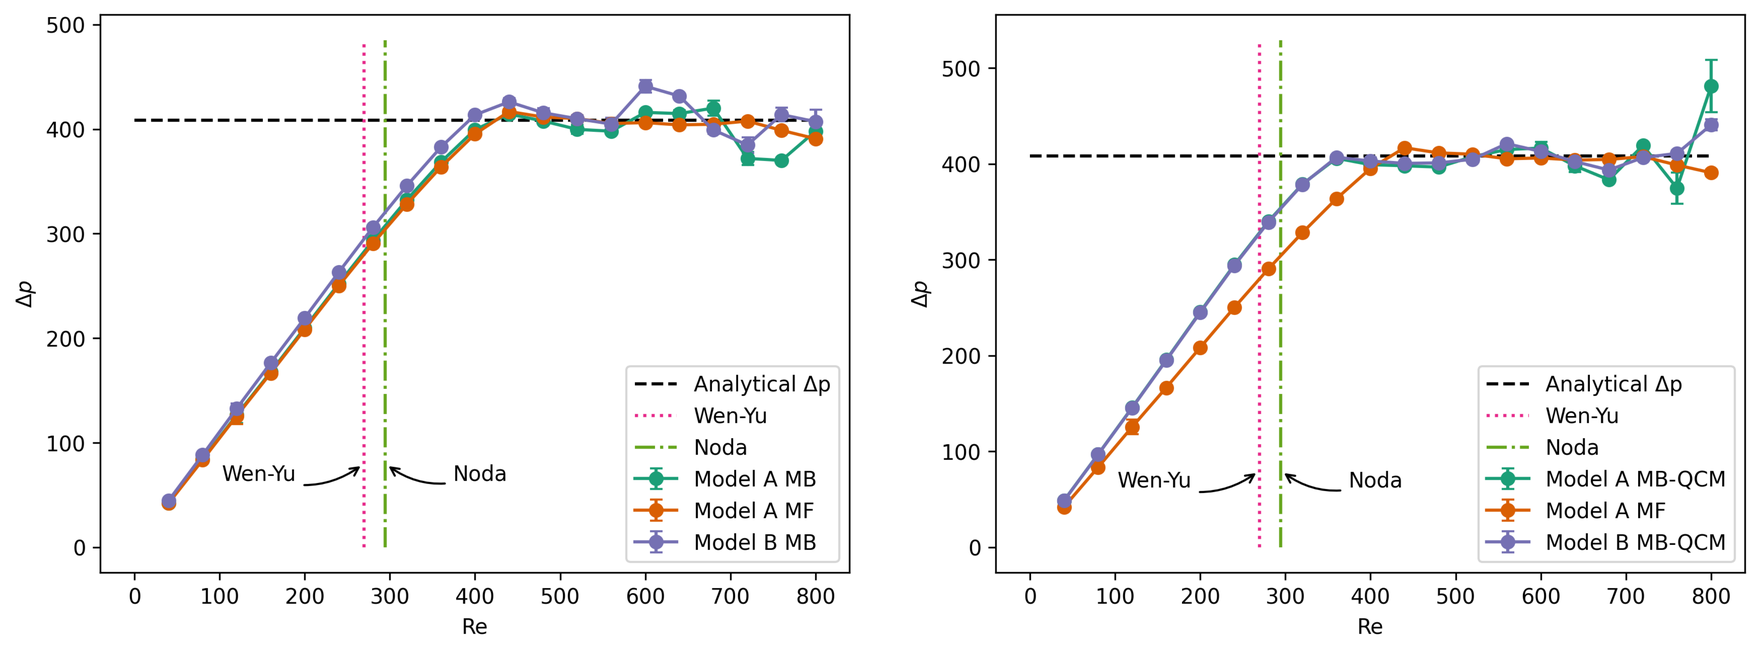
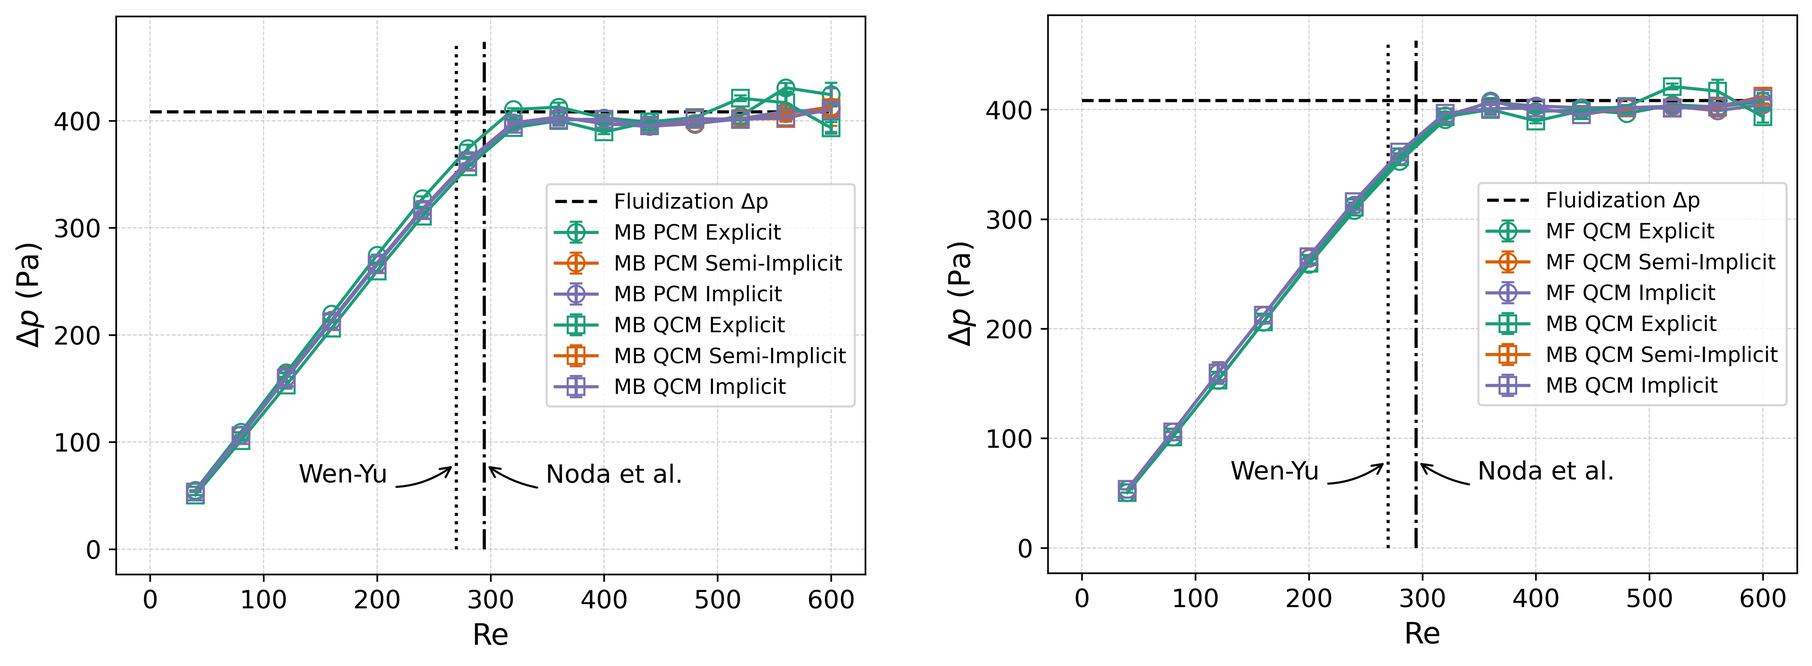
Finish new version of example

diff --git a/examples/unresolved-cfd-dem/gas-solid-fluidized-cylinder-bed/plot-pressure.py b/examples/unresolved-cfd-dem/gas-solid-fluidized-cylinder-bed/plot-pressure.py
@@ -14,13 +14,15 @@ from cycler import cycler
 #############################################################################
 # Steup plot parameters
 #############################################################################
-colors=['#1b9e77','#d95f02','#7570b3','#e7298a','#66a61e','#e6ab02']
+colors=['#1b9e77','#d95f02','#7570b3']
+markers = ['o', 's']
 
 plt.rcParams['axes.prop_cycle'] = cycler(color=colors)
 
 #############################################################################
 # Helper functions
 #############################################################################
+# === Binning function ===
 def bin_and_average(time, pressure, bins, averaging_window):
     indices = np.digitize(time, bins) - 1
     mean_p, std_p = [], []
@@ -36,11 +38,13 @@ def bin_and_average(time, pressure, bins, averaging_window):
 
 # === Plotting function ===
 def plot_pressure(Re, dataset_keys, labels, subscript):
-    for key, label in zip(dataset_keys, labels):
-        plt.errorbar(Re, datasets[key]["mean"], yerr=datasets[key]["std"], fmt='o-', capsize=3, label=label)
-    plt.plot([0, max(Re)], [delta_p_analytical]*2, 'k--', label="Analytical Δp")
-    plt.plot([Re_mf_WY_inlet, Re_mf_WY_inlet], [0, max([datasets[k]["mean"].max() for k in dataset_keys])*1.1], ':', label="Wen-Yu")
-    plt.plot([Re_mf_N_inlet, Re_mf_N_inlet], [0, max([datasets[k]["mean"].max() for k in dataset_keys])*1.1], '-.', label="Noda")
+    
+    for i, (key, label) in enumerate(zip(dataset_keys, labels)):
+        marker = markers[(i // 3) % len(markers)]
+        plt.errorbar(Re, datasets[key]["mean"], yerr=datasets[key]["std"], fmt=marker+'-',  markerfacecolor='none', markersize=8, capsize=3, label=label)
+    plt.plot([0, max(Re)], [delta_p_analytical]*2, 'k--', label="Fluidization Δp")
+    plt.plot([Re_mf_WY_inlet, Re_mf_WY_inlet], [0, max([datasets[k]["mean"].max() for k in dataset_keys])*1.1], 'k:')
+    plt.plot([Re_mf_N_inlet, Re_mf_N_inlet], [0, max([datasets[k]["mean"].max() for k in dataset_keys])*1.1], 'k-.')
       # Add annotations below the lines with arrows pointing up  
     # Fixed y for annotations
     y_annot = 80
@@ -52,22 +56,27 @@ def plot_pressure(Re, dataset_keys, labels, subscript):
         arrowprops=dict(facecolor='black', arrowstyle="->",
                         connectionstyle="arc3,rad=0.3"),    
         horizontalalignment='right',
-        verticalalignment='top'
+        verticalalignment='top',
+        fontsize=12
     )
     # Noda annotation (arrow from right, curved)
     plt.annotate(
-        "Noda",
+        "Noda et al.",
         xy=(Re_mf_N_inlet, y_annot),
-        xytext=(Re_mf_N_inlet + 0.1*max(Re), y_annot),  
+        xytext=(Re_mf_N_inlet + 0.09*max(Re), y_annot),  
         arrowprops=dict(facecolor='black', arrowstyle="->",
                         connectionstyle="arc3,rad=-0.3"),  
         horizontalalignment='left',
-        verticalalignment='top'
+        verticalalignment='top',
+        fontsize=12
     )
-    plt.xlabel("Re")
-    plt.ylabel("$\\Delta p$")
+    plt.grid(True, which='major', linestyle='--', linewidth=0.5, alpha=0.6)
+    plt.xticks(fontsize=12)
+    plt.yticks(fontsize=12)
+    plt.xlabel("Re", fontsize=14)
+    plt.ylabel("$\\Delta p$ (Pa)", fontsize=14)
     plt.legend()
-    plt.savefig(f"Figure_{subscript}.png", dpi=300, bbox_inches='tight')
+    plt.savefig(f"Figure_{subscript}.png", dpi=600, bbox_inches='tight')
     plt.show()
 
 
@@ -75,11 +84,15 @@ def plot_pressure(Re, dataset_keys, labels, subscript):
 # Load data
 #############################################################################
 data_files = {
-    "A_MB": "output_modelA_mb/pressure_drop.dat",
-    "B_MB": "output_modelB_mb/pressure_drop.dat",
-    "A_MB_proj": "output_modelA_project_forces_qcm/pressure_drop.dat",
-    "B_MB_proj": "output_modelB_project_forces_qcm/pressure_drop.dat",
-    "A_MF": "output_modelA_mf/pressure_drop.dat"
+    "MB_PCM_E": "output_mb_pcm_explicit/pressure_drop.dat",
+    "MB_PCM_SI": "output_mb_pcm_semi_implicit/pressure_drop.dat",
+    "MB_PCM_I": "output_mb_pcm_implicit/pressure_drop.dat",
+    "MB_QCM_E": "output_mb_qcm_explicit/pressure_drop.dat",
+    "MB_QCM_SI": "output_mb_qcm_semi_implicit/pressure_drop.dat",
+    "MB_QCM_I": "output_mb_qcm_implicit/pressure_drop.dat",
+    "MF_QCM_E": "output_mf_explicit/pressure_drop.dat",
+    "MF_QCM_SI": "output_mf_semi_implicit/pressure_drop.dat",
+    "MF_QCM_I": "output_mf_implicit/pressure_drop.dat"
 }
 
 datasets = {}
@@ -154,19 +167,19 @@ for key, ds in datasets.items():
 # Plot
 #############################################################################
 # Reynolds numbers for x-axis
-velocity = np.minimum(0.02 * np.floor(bin_centers / 0.05 + 1), 0.4)
+velocity = np.minimum(0.02 * np.floor(bin_centers / 0.05 + 1), 0.3)
 Re = velocity * D / nu
 
 plot_pressure(
     Re,
-    ["A_MB", "A_MF", "B_MB"],
-    ["Model A MB", "Model A MF", "Model B MB"],
-    "cell-based-MB"
+    ["MB_PCM_E", "MB_PCM_SI", "MB_PCM_I", "MB_QCM_E", "MB_QCM_SI", "MB_QCM_I"],
+    ["MB PCM Explicit", "MB PCM Semi-Implicit", "MB PCM Implicit", "MB QCM Explicit", "MB QCM Semi-Implicit", "MB QCM Implicit"],
+    "MB"
 )
 
 plot_pressure(
     Re,
-    ["A_MB_proj", "A_MF", "B_MB_proj"],
-    ["Model A MB-QCM", "Model A MF", "Model B MB-QCM"],
-    "qcm-based-MB"
+    ["MF_QCM_E", "MF_QCM_SI", "MF_QCM_I", "MB_QCM_E", "MB_QCM_SI", "MB_QCM_I"],
+    ["MF QCM Explicit", "MF QCM Semi-Implicit", "MF QCM Implicit", "MB QCM Explicit", "MB QCM Semi-Implicit", "MB QCM Implicit"],
+    "MB-MF"
 )

diff --git a/doc/source/examples/unresolved-cfd-dem/gas-solid-fluidized-cylinder-bed/gas-solid-fluidized-cylinder-bed.rst b/doc/source/examples/unresolved-cfd-dem/gas-solid-fluidized-cylinder-bed/gas-solid-fluidized-cylinder-bed.rst
@@ -20,8 +20,8 @@ Files Used in This Example
 
 All files mentioned below are located in the example's folder (``examples/unresolved-cfd-dem/gas-solid-fluidized-cylinder-bed``).
 
-- Parameter file for particle generation and packing: ``particle-packing.prm``
-- Parameter file for CFD-DEM simulation of the gas-solid fluidized bed: ``mb-fluidized-bed-modelA.prm``, ``mb-fluidized-bed-modelB.prm``, ``mb-fluidized-bed-modelA-qcm.prm``, ``mb-fluidized-bed-modelB-qcm.prm`` and ``mf-fluidized-bed-modelA.prm``
+- Parameter file for particle generation and packing: ``packing-particles.prm``
+- Parameter files for CFD-DEM simulation of the gas-solid fluidized bed: ``mb-fluidized-bed-modelA-pcm-explicit.prm``, ``mb-fluidized-bed-modelA-pcm-implicit.prm``, ``mb-fluidized-bed-modelA-pcm-semi-implicit.prm``, ``mb-fluidized-bed-modelA-qcm-explicit.prm``, ``mb-fluidized-bed-modelA-qcm-implicit.prm ``, ``mb-fluidized-bed-modelA-qcm-semi-implicit.prm``, ``mf-fluidized-bed-modelA-qcm-explicit.prm``, ``mf-fluidized-bed-modelA-qcm-implicit.prm``, ``mf-fluidized-bed-modelA-qcm-semi-implicit.prm``
 - Post-processing Python script: ``plot-pressure.py``
 
 
@@ -29,14 +29,28 @@ All files mentioned below are located in the example's folder (``examples/unreso
 Description of the Case
 -----------------------
 
-This example simulates a gas–solid fluidized bed inside a cylindrical column (diameter :math:`0.02` m, height :math:`0.4` m). First, ``lethe-particles`` is used with ``particle-packing.prm`` to generate and pack spherical particles (diameter :math:`0.0005` m, density :math:`1000\;\text{kg}/\text{m}^3`) inside the column. After packing, the solid–fluid mixture is simulated with two solvers: the matrix-free solver ``lethe-fluid-particle-matrix-free`` and the matrix-based CFD–DEM solver ``lethe-fluid-particles``. For the matrix-based solver we test two VANS models (model A and model B), and for each model we project particle–fluid forces using one of two approaches: a cell-based filter or the Quadrature-Centered Method (QCM) filter. The superficial gas velocity at the inlet is varied from :math:`0.02` to :math:`0.4\;\text{m}/\text{s}` and the pressure drop across the bed is recorded. Results are compared with correlations from the literature for validation.
+This example simulates a gas–solid fluidized bed inside a cylindrical column (diameter :math:`0.02` m, height :math:`0.4` m). First, ``lethe-particles`` is used with ``packing-particles.prm`` to generate and pack spherical particles (diameter :math:`0.0005` m, density :math:`1000\;\text{kg}/\text{m}^3`) inside the column. After packing, the solid–fluid mixture is simulated using the model A of the VANS equations with two solvers:
+ 1. The matrix-based CFD–DEM solver ``lethe-fluid-particles``
+   
+    The VANS model A using the matrix-based solver is tested with two different projection filters:
+
+       * a cell-based filter (corresponding to the Particle Centroid Method, PCM)
+       * the Quadrature-Centered Method (QCM) filter. 
+  
+ 2. The matrix-free solver ``lethe-fluid-particle-matrix-free`` 
+   
+    This solver only works with the QCM filter
+
+For more details on the different filtering approaches used in Lethe, the reader is invited to consult the `Unresolved CFD-DEM section <../../../theory/multiphase/cfd_dem/unresolved_cfd-dem.html>`_ of Lethe's theory guide. It is worth noting that in this example, the same filter is applied to both the void fraction and the particle–fluid forces, which is mathematically consistent. However, different filters can be applied to the void fraction and to the particle–fluid forces independently, if desired. Each case is run with three different coupling approaches for the drag force: explicit, implicit, and semi-implicit.
+
+The superficial gas velocity at the inlet is varied from :math:`0.02` to :math:`0.3\;\text{m}/\text{s}` and the pressure drop across the bed is recorded. Results are compared with correlations from the literature for validation.
 
 
 -------------------
 DEM Parameter File
 -------------------
 
-A DEM simulation is first run to insert the required number of particles. A detailed description of all the DEM parameter subsections can be found in the `DEM parameters section <../../../parameters/dem/dem.html>`_. The subsections in the DEM parameter file ``particle-packing.prm`` that are pertinent to this example are described below. 
+A DEM simulation is first run to insert the required number of particles. A detailed description of all the DEM parameter subsections can be found in the `DEM parameters section <../../../parameters/dem/dem.html>`_. The subsections in the DEM parameter file ``packing-particles.prm`` that are pertinent to this example are described below. 
 
 
 Mesh
@@ -192,7 +206,7 @@ The packing simulation can be launched on 16 processors using the following comm
 .. code-block:: text
   :class: copy-button
 
-  mpirun -np 16 lethe-particles particle-packing.prm
+  mpirun -np 16 lethe-particles packing-particles.prm
 
 .. note:: 
     Running this simulation should take approximately 1 hour and 10 minutes on 16 cores.
@@ -204,27 +218,27 @@ Now that the particles are packed inside the cylindrical column, the CFD-DEM sim
 CFD-DEM Parameter File
 -----------------------
 
-The CFD-DEM simulation is run using the matrix-based solver ``lethe-fluid-particles`` or the matrix-free solver ``lethe-fluid-particles-matrix-free``. For the matrix-based solver, four parameter files are provided to test two VANS models (model A and model B) with two force projection methods (cell-based and QCM). The matrix-free solver is only tested with model A. The main description in this section follows the matrix-based parameter file ``mb-fluidized-bed-modelA.prm``. Differences associated with the remaining parameter files will be highlighted where relevant.
+The CFD-DEM simulation is run using the matrix-based solver ``lethe-fluid-particles`` or the matrix-free solver ``lethe-fluid-particles-matrix-free``. For the matrix-based solver, six parameter files are provided to test VANS model A with two projection filters (cell-based and QCM) and three different drag coupling approaches (explicit, implicit, and semi-implicit). The matrix-free solver is also tested with the QCM filter and the three drag coupling schemes. The main description in this section follows the matrix-based parameter file ``mb-fluidized-bed-modelA-qcm-semi-implicit.prm``. Differences associated with the remaining parameter files will be highlighted where relevant.
 
 The objective of the simulations is to represent the pressure drop across the bed as a function of the Reynolds number based on the superficial gas velocity and the column diameter:
 
 .. math::
-  Re = \frac{U_{\mathrm{g}} D}{\nu_{\mathrm{f}}}
+  \mathrm{Re} = \frac{U_{\mathrm{g}} D}{\nu_{\mathrm{f}}}
 
-where :math:`U_{\mathrm{g}}` is the superficial gas velocity, :math:`D` is the column diameter and :math:`\nu_{\mathrm{f}}` is the kinematic viscosity of the fluid. For a Reynolds number interval ranging from :math:`200` to :math:`800`, the gas inlet velocity is varied from :math:`0.02\;\text{m/s}` to :math:`0.4\;\text{m/s}` in increments of :math:`0.02\;\text{m/s}`, each value applied for :math:`0.05` s.
+where :math:`U_{\mathrm{g}}` is the superficial gas velocity, :math:`D` is the column diameter and :math:`\nu_{\mathrm{f}}` is the kinematic viscosity of the fluid. For a Reynolds number interval ranging from :math:`200` to :math:`600`, the gas inlet velocity is varied from :math:`0.02\;\text{m/s}` to :math:`0.3\;\text{m/s}` in increments of :math:`0.02\;\text{m/s}`, each value applied for :math:`0.05` s.
 
 
 Simulation Control
 ~~~~~~~~~~~~~~~~~~~~~~~~~~~~
 
-To reach an inlet velocity of :math:`0.4\;\text{m/s}`, as described earlier, the CFD-DEM simulation is run for a total time of :math:`1` s with a time step of :math:`0.0002` s. In the case of the QCM projection of the forces with the matrix-based solver, only an explicit coupling of the drag is available at the time this example was created. Therefore, in the latter case, the time step is reduced to :math:`0.0001` s to ensure numerical stability.
+To reach an inlet velocity of :math:`0.3\;\text{m/s}`, as described earlier, the CFD-DEM simulation is run for a total time of :math:`0.75` s with a time step of :math:`0.0002` s. For cases with an explicit drag coupling, the time step is reduced to :math:`0.0001` s to ensure numerical stability.
 
 .. code-block:: text
 
     subsection simulation control
         set method           = bdf1
         set output frequency = 50
-        set time end         = 1.0
+        set time end         = 0.75
         set time step        = 0.0002
     end
 
@@ -260,7 +274,7 @@ The boundary conditions are chosen as follows: a no-slip condition on the latera
             set id   = 1
             set type = function
             subsection u
-            set Function expression = min(0.02 * floor(t / 0.05 + 1), 0.4)
+            set Function expression = min(0.02 * floor(t / 0.05 + 1), 0.3)
             end
             subsection v
             set Function expression = 0
@@ -279,7 +293,7 @@ The boundary conditions are chosen as follows: a no-slip condition on the latera
 Void Fraction
 ~~~~~~~~~~~~~~~~~~~~~~~~~~~~
 
-The void fraction is computed using the particle information available in the DEM files, so ``read_dem`` is set to ``true``. The ``dem file name`` corresponds to the files written during the previous DEM simulation using checkpointing. The calculation method is set to ``qcm``, with the sphere’s radius chosen such that its volume equals the cell’s volume by setting ``qcm sphere equal cell volume`` to ``true``. A smoothing length equal to twice the particle diameter is used.
+The void fraction is computed using the particle information available in the DEM files, so ``read_dem`` is set to ``true``. The ``dem file name`` corresponds to the files written during the previous DEM simulation using checkpointing. The calculation method is set to ``qcm``, with the sphere’s radius chosen such that its volume equals the cell’s volume by setting ``qcm sphere equal cell volume`` to ``true``. For cases using the PCM filter, the void fraction ``mode`` is set to ``pcm`` instead. A smoothing length equal to twice the particle diameter is used.
 
 .. code-block:: text
 
@@ -295,7 +309,7 @@ The void fraction is computed using the particle information available in the DE
 CFD-DEM
 ~~~~~~~~~~~~~~~~~~~~~~~~~~~~
 
-All hydrodynamic forces are enabled in the ``cfd-dem`` subsection. This allows testing the different models. Grad-div stabilization is also enabled to improve mass conservation, using a length-scale equal to the column's radius, which is of the same order of the characteristic length of the flow, as recommended in the `CFD-DEM parameters section <../../../parameters/unresolved-cfd-dem/cfd-dem.html>`_. In simulations where the QCM projection is applied to the particle–fluid forces, the parameter ``project particle forces`` is set to ``true``, and the ``drag coupling`` is set to ``explicit``.
+All hydrodynamic forces are enabled in the ``cfd-dem`` subsection. This allows testing the different models. Grad-div stabilization is also enabled to improve mass conservation, using a length-scale equal to the column's radius, which is of the same order of the characteristic length of the flow, as recommended in the `CFD-DEM parameters section <../../../parameters/unresolved-cfd-dem/cfd-dem.html>`_. In simulations of this example using the QCM filter, the parameter ``project particle forces`` is set to ``true``, to use the QCM filter to calculate the particle-fluid forces (by default, this parameter is ``false``, and the cell-based filter is used to calculate the particle-fluid forces term in the VANS equations). The ``drag coupling`` parameter is set to the desired coupling approach and defaults to ``semi-implicit``.
 
 .. code-block:: text
 
@@ -310,6 +324,8 @@ All hydrodynamic forces are enabled in the ``cfd-dem`` subsection. This allows t
         set drag model                    = difelice
         set coupling frequency            = 100
         set vans model                    = modelA
+        set drag coupling                 = semi-implicit
+        set project particle forces       = true
     end
 
 
@@ -379,31 +395,39 @@ The simulations are launched with the matrix-based solver (and corresponding par
 .. code-block:: text
   :class: copy-button
 
-  mpirun -np 8 lethe-fluid-particles mb-fluidized-bed-modelA.prm
+  mpirun -np 8 lethe-fluid-particles mb-fluidized-bed-modelA-qcm-semi-implicit.prm
 
 The matrix-free solver is run following:
 
 .. code-block:: text
   :class: copy-button
 
-  mpirun -np 8 lethe-fluid-particles-matrix-free mf-fluidized-bed-modelA.prm
+  mpirun -np 8 lethe-fluid-particles-matrix-free mf-fluidized-bed-modelA-qcm-semi-implicit.prm
 
 .. note::   
     The simulation runtimes on 128 cores, which are approximate, are as follows:
 
-    +------------------+-------------+------------------+--------------------+
-    | Solver           | VANS Model  | Force projection | Simulation runtime |
-    +==================+=============+==================+====================+
-    | Matrix-based     | A           | Cell-based       | 1 h 30 min         |
-    +------------------+-------------+------------------+--------------------+
-    | Matrix-based     | B           | Cell-based       | 2 h 30 min         |
-    +------------------+-------------+------------------+--------------------+
-    | Matrix-based     | A           | QCM              | 3 h                |
-    +------------------+-------------+------------------+--------------------+
-    | Matrix-based     | B           | QCM              | 3 h                |
-    +------------------+-------------+------------------+--------------------+
-    | Matrix-free      | A           | QCM              | 1 h 20 min         |
-    +------------------+-------------+------------------+--------------------+
+    +---------------+-------------+-------------------+--------------------+-----------------+
+    | Solver        | VANS Model  | Force projection  | Drag coupling  | Simulation runtime  |
+    +===============+=============+===================+================+=====================+
+    | Matrix-based  | A           | PCM (Cell-based)  | Explicit       | 2 h 50 min          |  
+    +---------------+-------------+-------------------+----------------+---------------------+
+    | Matrix-based  | A           | PCM (Cell-based)  | Semi-implicit  | 1 h 9 min           |
+    +---------------+-------------+-------------------+----------------+---------------------+
+    | Matrix-based  | A           | PCM (Cell-based)  | Implicit       | 1 h 25 min          |
+    +---------------+-------------+-------------------+----------------+---------------------+
+    | Matrix-based  | A           | QCM               | Explicit       | 2 h 11 min          |
+    +---------------+-------------+-------------------+----------------+---------------------+
+    | Matrix-based  | A           | QCM               | Semi-implicit  | 1 h 5 min           |
+    +---------------+-------------+-------------------+----------------+---------------------+
+    | Matrix-based  | A           | QCM               | Implicit       | 1 h 39 min          |
+    +---------------+-------------+-------------------+----------------+---------------------+
+    | Matrix-free   | A           | QCM               | Explicit       | 1 h 56 min          |
+    +---------------+-------------+-------------------+----------------+---------------------+
+    | Matrix-free   | A           | QCM               | Semi-implicit  | 54 min              |
+    +---------------+-------------+-------------------+----------------+---------------------+
+    | Matrix-free   | A           | QCM               | Implicit       | 1 h 16 min          |
+    +---------------+-------------+-------------------+----------------+---------------------+
 
 
 --------
@@ -427,8 +451,10 @@ Here, the subscript :math:`\mathrm{mf}` refers to minimum fluidization, and :mat
   \mathrm{Ar} = \frac{g \rho_{\mathrm{f}} (\rho_{\mathrm{p}} - \rho_{\mathrm{f}}) d_{\mathrm{p}}^3}{\mu_{\mathrm{f}}^2}.
 
 .. image:: images/pressure-drop.png
-    :alt: Pressure drop across the bed as a function of the Reynolds number at the column inlet
+    :alt: Pressure drop across the bed as a function of the Reynolds number at the column inlet. The error bar indicates the standard deviation of the pressure drop over the last 0.025 s of each velocity step.
     :align: center
+
+The figure on the left compares the matrix-based (MB) solver results with a cell-based PCM filter and to those with the same solver but a QCM filter. The figure on the right compares the MB solver with the matrix-free (MF) solver results, both obtained with a QCM filter. The different colors correspond to the different drag coupling approaches (explicit in green, semi-implicit in orange, and implicit in purple).
 
 It can be seen that all simulations recover the expected constant pressure-drop plateau after fluidization (shown with the horizontal dashed line), equal to the net weight of the particle bed (weight minus buoyancy) per unit area:
 
@@ -437,30 +463,7 @@ It can be seen that all simulations recover the expected constant pressure-drop 
 
 with :math:`N_\mathrm{p}` the number of particles, :math:`V_\mathrm{p}` the volume of a particle, and :math:`A_\mathrm{b}` the cross-sectional area of the bed.
 
-The figure on the left compares the matrix-based (MB) solver results with cell-based force projection for models A and B, as well as the matrix-free (MF) solver for model A (which uses only QCM filtering for the force projection). The figure on the right compares the MB solver results with QCM force projection for models A and B and the MF solver with QCM force projection.
-
-It can be seen that the increasing portion of the pressure-drop curve varies only slightly between the MB simulations with cell-based force projection and the MF model. In contrast, the MB simulations using QCM force projection exhibit a steeper rise before fluidization, resulting in a fluidization point closer to the shown correlations. This behaviour may be attributed to the smaller time step required for numerical stability when using an explicit drag coupling with QCM force projection, as well as to the cell-independent nature of the filtering (which is also the case for the MF solver). Discrepancies appear in the fluctuations of the plateau region after fluidization, which may be better resolved by using a smaller time step or tighter nonlinear solver tolerances.
-
-The following table summarizes the fluidization Reynolds number obtained with each simulation (taken to be the first intersection point with the horizontal dotted line), compared to the Wen-Yu [#WenYu1966]_  and Noda *et al* [#Noda1986]_ correlations:
-
-    +---------------------------+-------------+------------------+------------------------+
-    | Solver                    | VANS Model  | Force projection | :math:`Re_{\text{mf}}` |
-    +===========================+=============+==================+========================+
-    | Matrix-based              | A           | Cell-based       | 426                    |
-    +---------------------------+-------------+------------------+------------------------+
-    | Matrix-based              | B           | Cell-based       | 393                    |
-    +---------------------------+-------------+------------------+------------------------+
-    | Matrix-based              | A           | QCM              | 361                    |
-    +---------------------------+-------------+------------------+------------------------+
-    | Matrix-based              | B           | QCM              | 361                    |
-    +---------------------------+-------------+------------------+------------------------+
-    | Matrix-free               | A           | QCM              | 426                    |
-    +---------------------------+-------------+------------------+------------------------+
-    | Wen-Yu [#WenYu1966]_      | A           | QCM              | 270                    |
-    +---------------------------+-------------+------------------+------------------------+
-    | Noda *et al* [#Noda1986]_ | A           | QCM              | 294                    |
-    +---------------------------+-------------+------------------+------------------------+
-
+It can be seen that the increasing portion of the pressure-drop curve is almost identical across the different cases, with the most pronounced deviation observed for the explicit drag coupling using the PCM filter. All curves appear to plateau at a similar :math:`\mathrm{Re}`, between :math:`300` and :math:`400`, which is close to the minimum fluidization Reynolds number predicted by the Wen–Yu (:math:`\mathrm{Re}_{\text{mf}}=270`) and Noda et al. (:math:`\mathrm{Re}_{\text{mf}}=294`) correlations. Fluctuations in the pressure-drop values appear after fluidization, generally increasing with increasing :math:`\mathrm{Re}`. These fluctuations are expected, as the particles become more dynamic, requiring longer sampling times (longer than :math:`0.05` s). Differences between the different cases in this region arise from the sensitivity of the particle dynamics to small changes in the different variables, a consequence of the chaotic behavior. Overall, the results demonstrate good agreement between the different solver configurations and with the expected physical behavior of a gas–solid fluidized bed.
 
 -----------
 References
